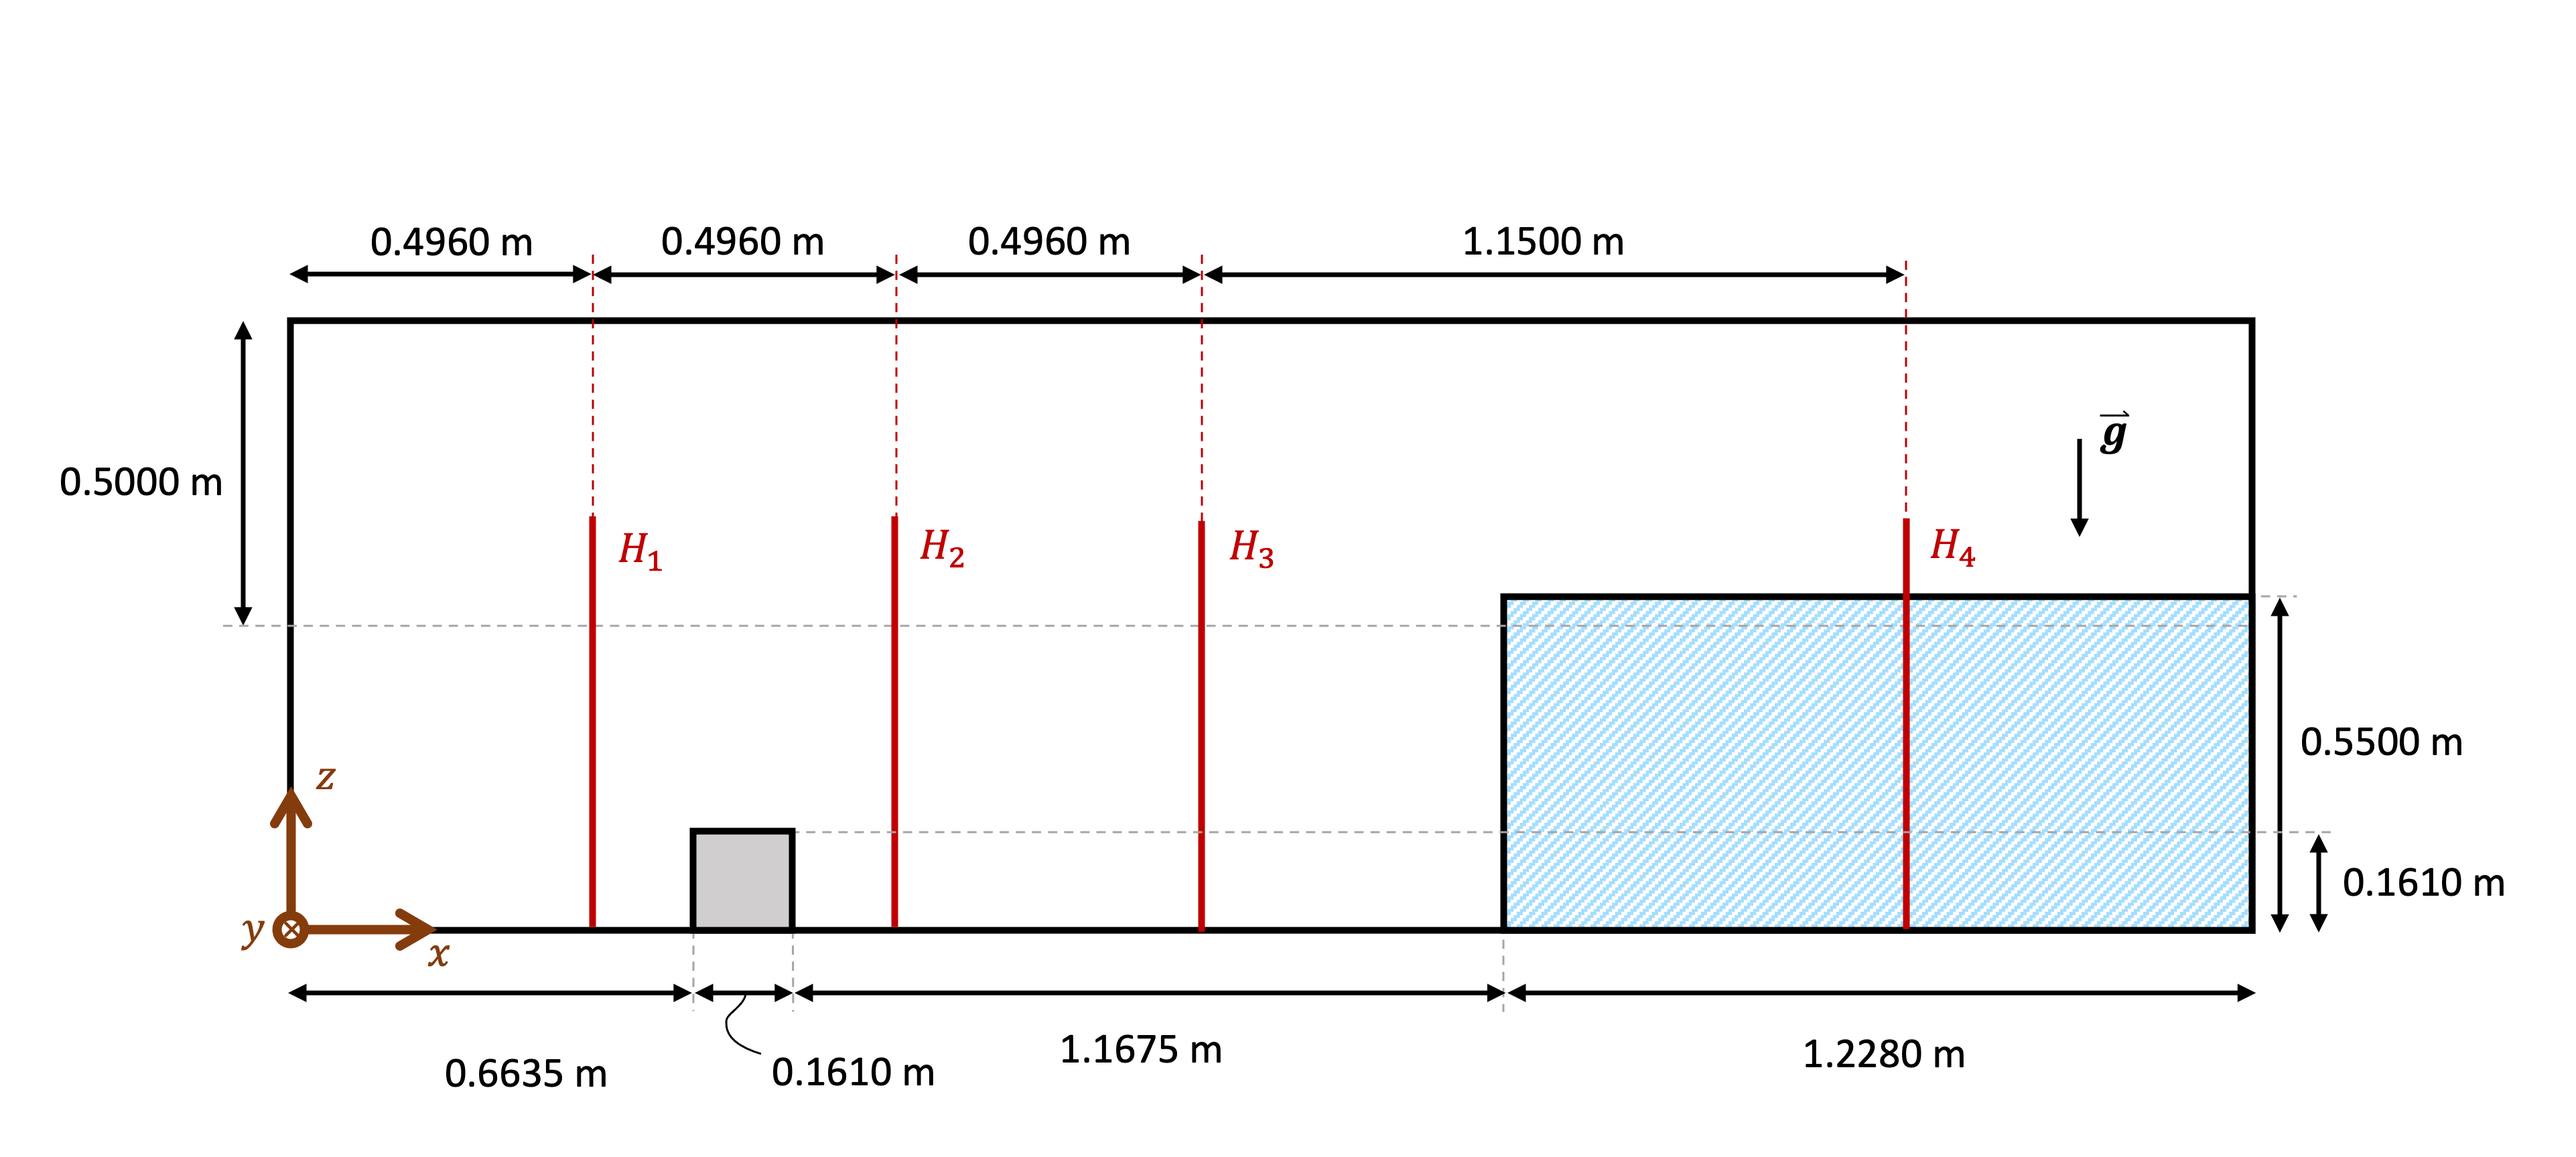
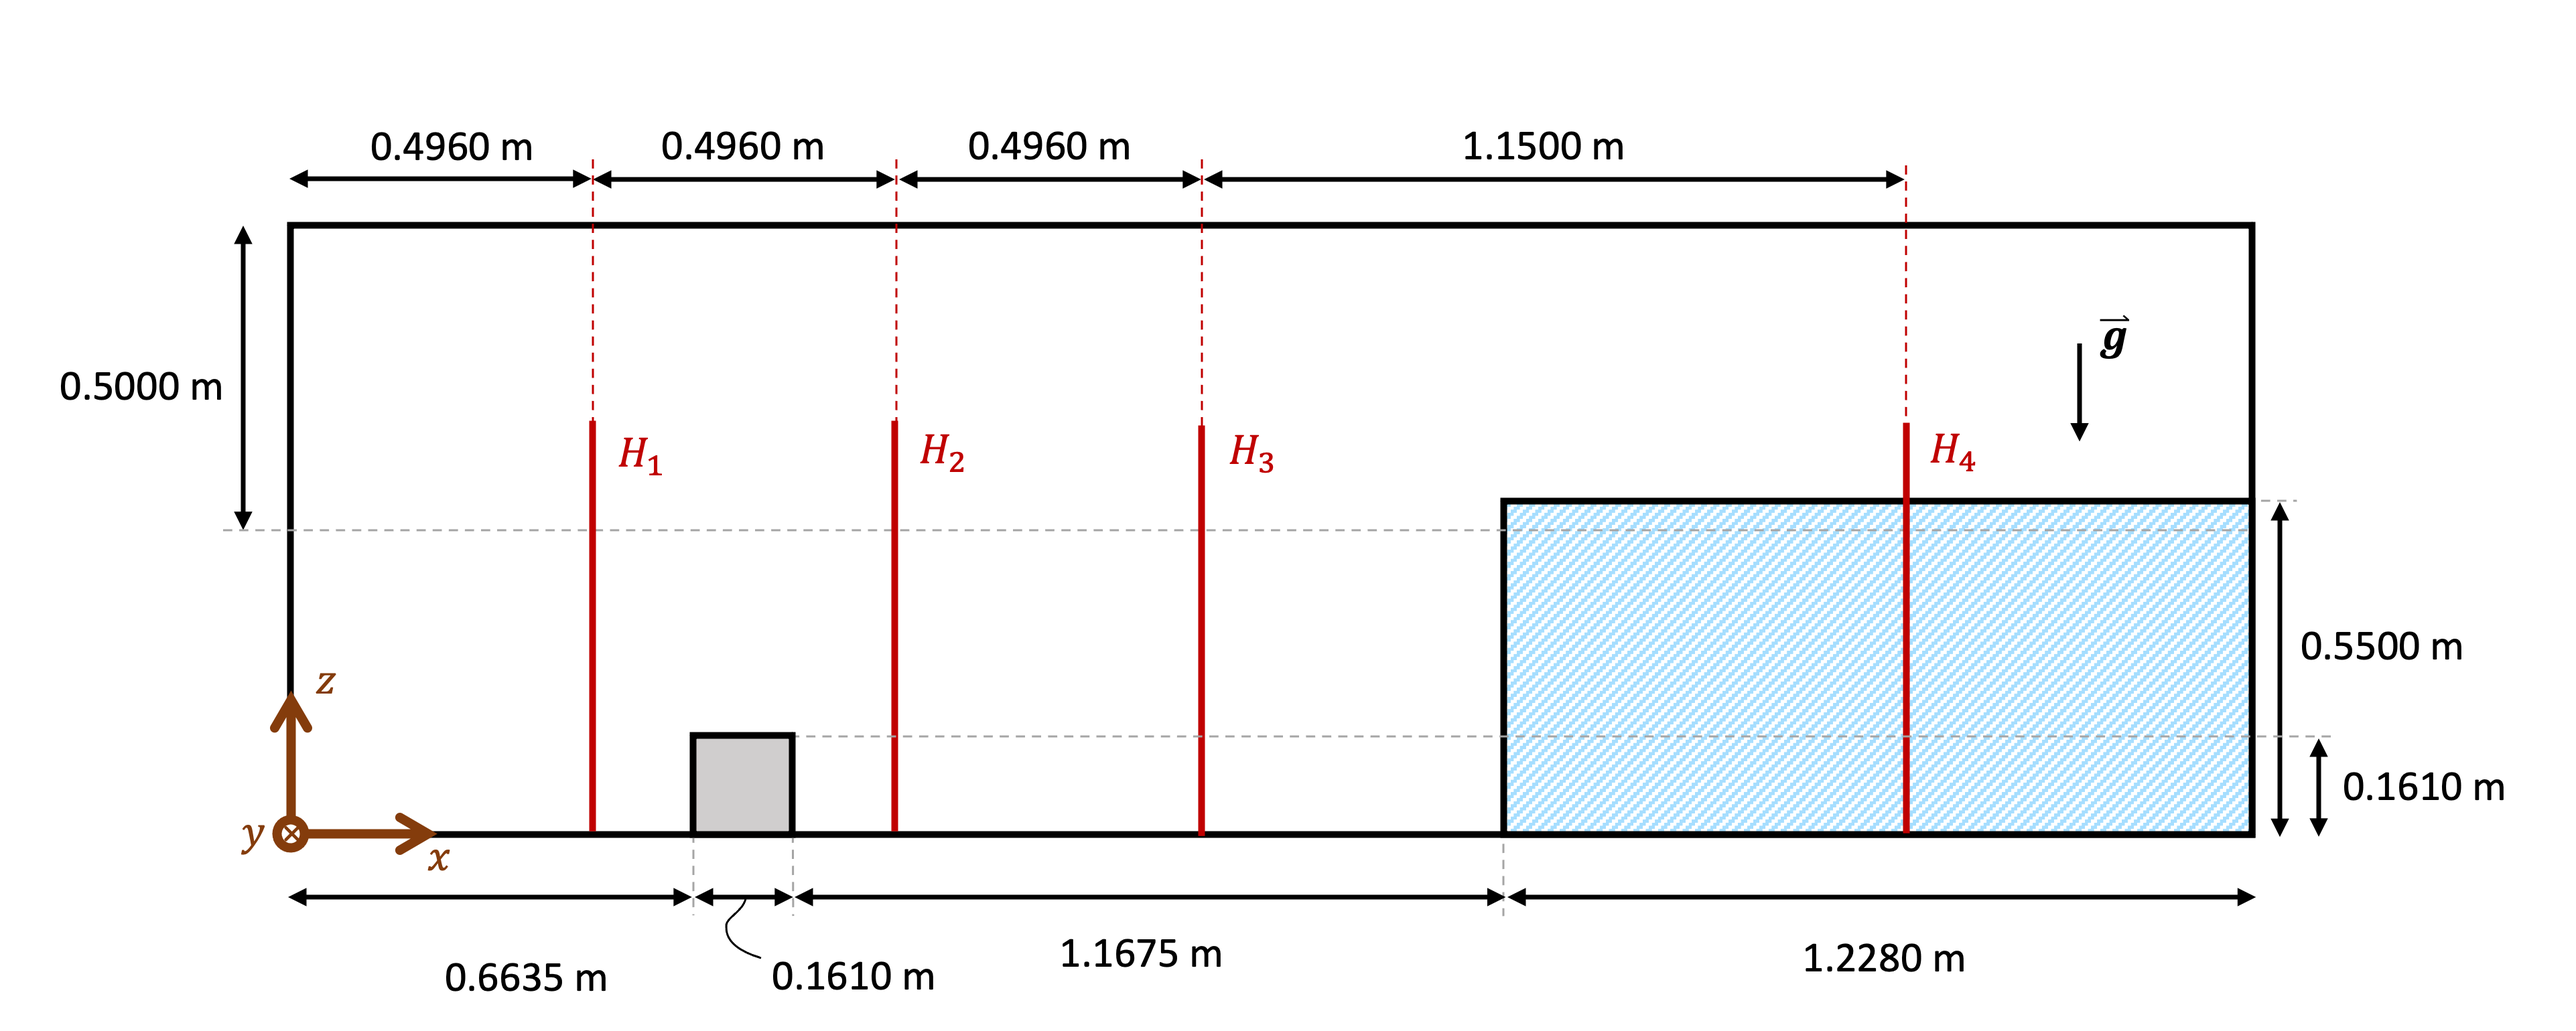
Fix figure spacing issues

diff --git a/doc/source/examples/multiphysics/3d-dam-break/3d-dam-break.rst b/doc/source/examples/multiphysics/3d-dam-break/3d-dam-break.rst
@@ -36,30 +36,45 @@ For this example, the simulated fluids are water and air. Initially, the water i
 
 Along the x-axis, the water height is measured at 4 different positions. These positions are represented by red crosses in the figure below.
 
++-------------------------------------------------------------------------------------------------------------------+
+|  .. figure:: images/3d-dam-break-figure.png                                                                       |
+|     :alt: View from above the tank. Initially, the water is at rest on the right side of the tank. The            |
+|      water column is 1.228 m long. 0.6635 m from the left edge, there is a rectangular box-shaped obstacle.       |
+|      This obstacle is 1.1675 m away from the resting water. The water height is measured along the x-axis         |
+|      at respectively 0.496 m, 0.992 m, 1.488 m, and 2.632 m from the left side of the tank.                       |
+|     :align: center                                                                                                |
+|     :name: Initial state top view                                                                                 |
+|                                                                                                                   |
+|     Initial state top view                                                                                        |
+|                                                                                                                   |
++-------------------------------------------------------------------------------------------------------------------+
 
-.. figure:: images/3d-dam-break-figure.png
-   :alt: View from above the tank. Initially, the water is at rest on the right side of the tank. The water column is 1.228 m long. 0.6635 m from the left edge, there is a rectangular box-shaped obstacle. This obstacle is 1.1675 m away from the resting water. The water height is measured along the x-axis at respectively 0.496 m, 0.992 m, 1.488 m, and 2.632 m from the left side of the tank.
-   :align: center
-   :name: View from above at the initial state of the system
+|
 
-   Initial state top view
++-------------------------------------------------------------------------------------------------------------------+
+|  .. figure:: images/3d-dam-break-figure_side.png                                                                  |
+|     :alt: View from the side of the tank. Initially, the water is at rest on the right side of the tank.          |
+|      The water column is 1.228 m long, and 0.55 m in height. 0.6635 m from the left edge, there is a rectangular  |
+|      box-shaped obstacle. This obstacle is 1.1675 m away from the resting water. The water height is measured     |
+|      along the x-axis at respectively 0.496 m, 0.992 m, 1.488 m, and 2.632 m from the left side of the tank.      |
+|     :align: center                                                                                                |
+|     :name: Initial state side view                                                                                |
+|                                                                                                                   |
+|     Initial state side view                                                                                       |
+|                                                                                                                   |
++-------------------------------------------------------------------------------------------------------------------+
 
+|
 
-.. figure:: images/3d-dam-break-figure_side.png
-   :alt: View from the side of the tank. Initially, the water is at rest on the right side of the tank. The water column is 1.228 m long, and 0.55 m in height. 0.6635 m from the left edge, there is a rectangular box-shaped obstacle. This obstacle is 1.1675 m away from the resting water. The water height is measured along the x-axis at respectively 0.496 m, 0.992 m, 1.488 m, and 2.632 m from the left side of the tank.
-   :align: center
-   :name: View from the side at the initial state of the system
-
-   Initial state side view
-
-
-.. figure:: images/geo.png
-   :alt: 3D view of the initial system
-   :align: center
-   :name: 3D View of the initial system
-
-   Initial state in 3D
-
++-------------------------------------------------------------------------------------------------------------------+
+|  .. figure:: images/geo.png                                                                                       |
+|     :alt: 3D view of the initial system                                                                           |
+|     :align: center                                                                                                |
+|     :name: Initial state in 3D                                                                                    |
+|                                                                                                                   |
+|     Initial state in 3D                                                                                           |
+|                                                                                                                   |
++-------------------------------------------------------------------------------------------------------------------+
 
 -----------------
 Parameter file
@@ -263,10 +278,20 @@ The following video shows the results of the simulation:
 
 In the following figure, we compare the water height evolution at 4 the positions mentioned in the `<Description of the case_>`_ section with the experimental results obtained from MARIN (available `here <https://www.spheric-sph.org/tests/test-02>`_):
 
-.. figure:: images/H1_to_H4_evolution.png
-   :alt: In this figure, the water height evolutions are compared with the experimental results of MARIN. In the top left corner, we compare the evolution of the water height at 0.496 m away from the left side of the tank. In the top right corner, we compare the evolution of the water height at 0.992 m away from the left side of the tank. In the bottom left corner, we compare the evolution of the water height at 1.488 m away from the left side of the tank. In the bottom right corner, we compare the evolution of the water height at 1.638 m away from the left side of the tank.
-   :align: center
-   :name: Comparison of the water height at different position in the tank with the experimental data of MARIN
++-------------------------------------------------------------------------------------------------------------------+
+|  .. figure:: images/H1_to_H4_evolution.png                                                                        |
+|     :alt: In this figure, the water height evolutions are compared with the experimental results of MARIN.        |
+|      In the top left corner, we compare the evolution of the water height at 0.496 m away from the left side of   |
+|      the tank. In the top right corner, we compare the evolution of the water height at 0.992 m away from the     |
+|      left side of the tank. In the bottom left corner, we compare the evolution of the water height at 1.488 m    |
+|      away from the left side of the tank. In the bottom right corner, we compare the evolution of the water       |
+|      height at 1.638 m away from the left side of the tank.                                                       |
+|     :align: center                                                                                                |
+|     :name: Comparison of the water height at different position in the tank with the experimental data of MARIN   |
+|                                                                                                                   |
+|     Comparison of the water height evolution                                                                      |
+|                                                                                                                   |
++-------------------------------------------------------------------------------------------------------------------+
 
 As we can see, the simulated general evolution of the height seems to follow the experimentation results. However, on all 4 subplots, we notice that the height is overestimated. We also notice a slight shift to the right for :math:`H2`,  :math:`H3`, and :math:`H4` evolutions. These observations may be explained by the "highly viscous air" (fluid 0) that acts as an obstacle to the free flow of the water. Additionally, fluid 1 representing the water is 1000 times more viscous than regular water. With these results, we can see that the model needs to be improved to be able to accurately simulate low-viscosity fluids such as air.
 
